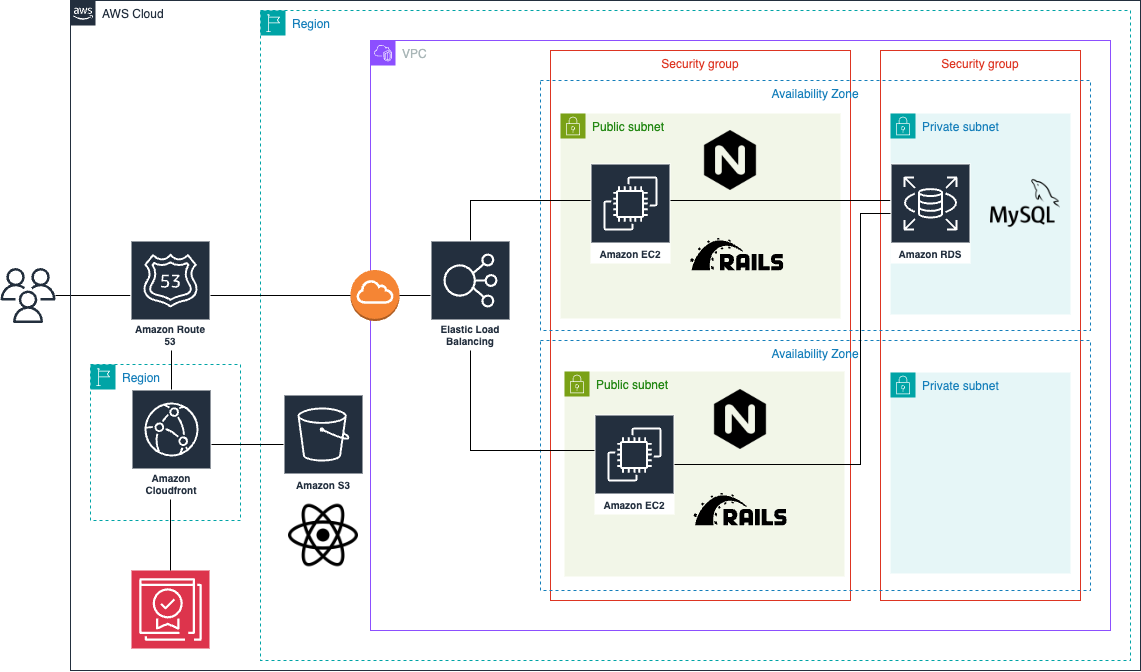
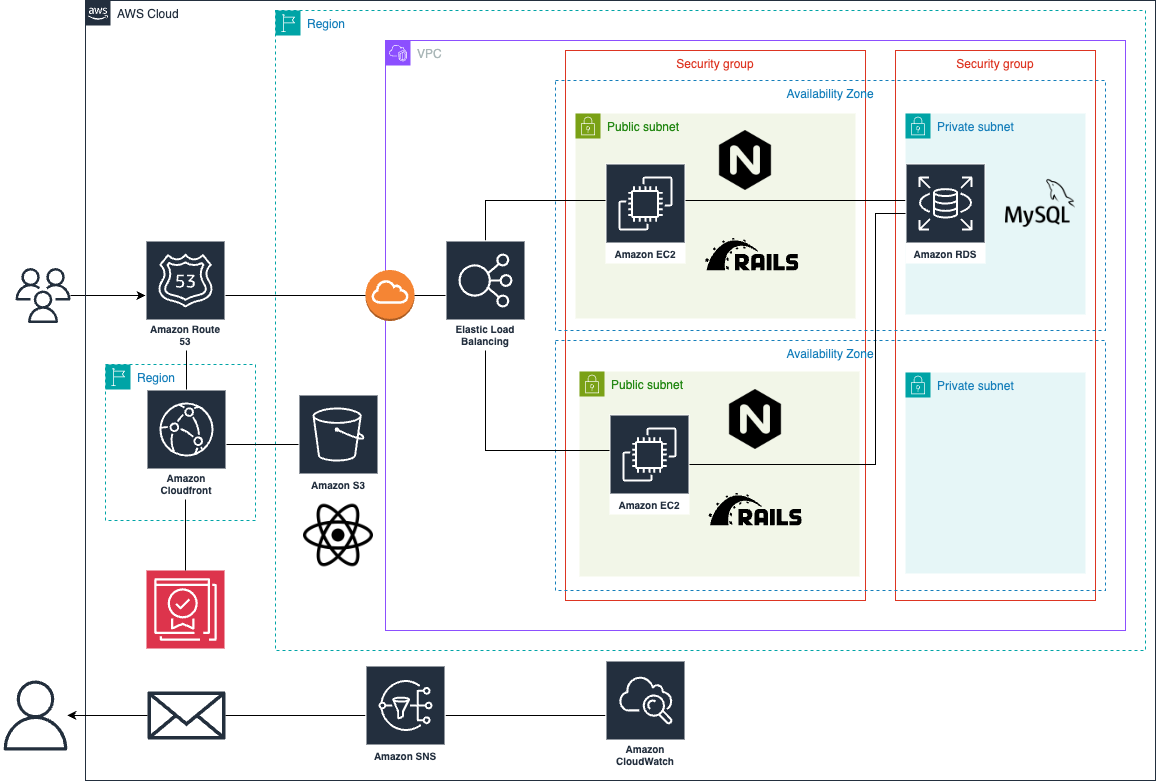
システム構成図の修正

diff --git a/document/document.md b/document/document.md
@@ -147,4 +147,4 @@ Sectors:業種
 | name | 名前 | VARCHAR(25) |     | TRUE |
 
 ## ■　システム構成図
-![/Users/murakamifuuta/Desktop/MoneyManagement/document/img/システム構成図.png](img/システム構成図.png)
+![document/img/システム構成図.png](img/システム構成図.png)
